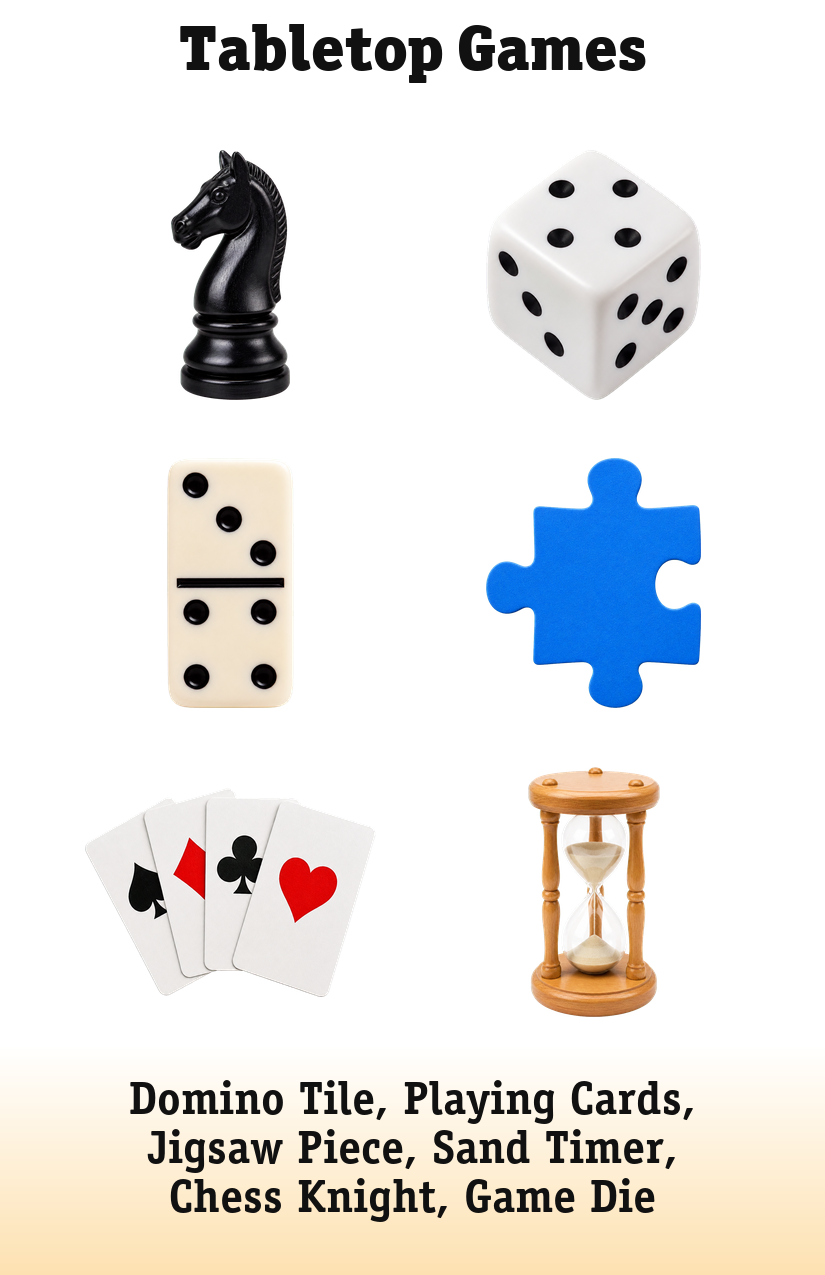
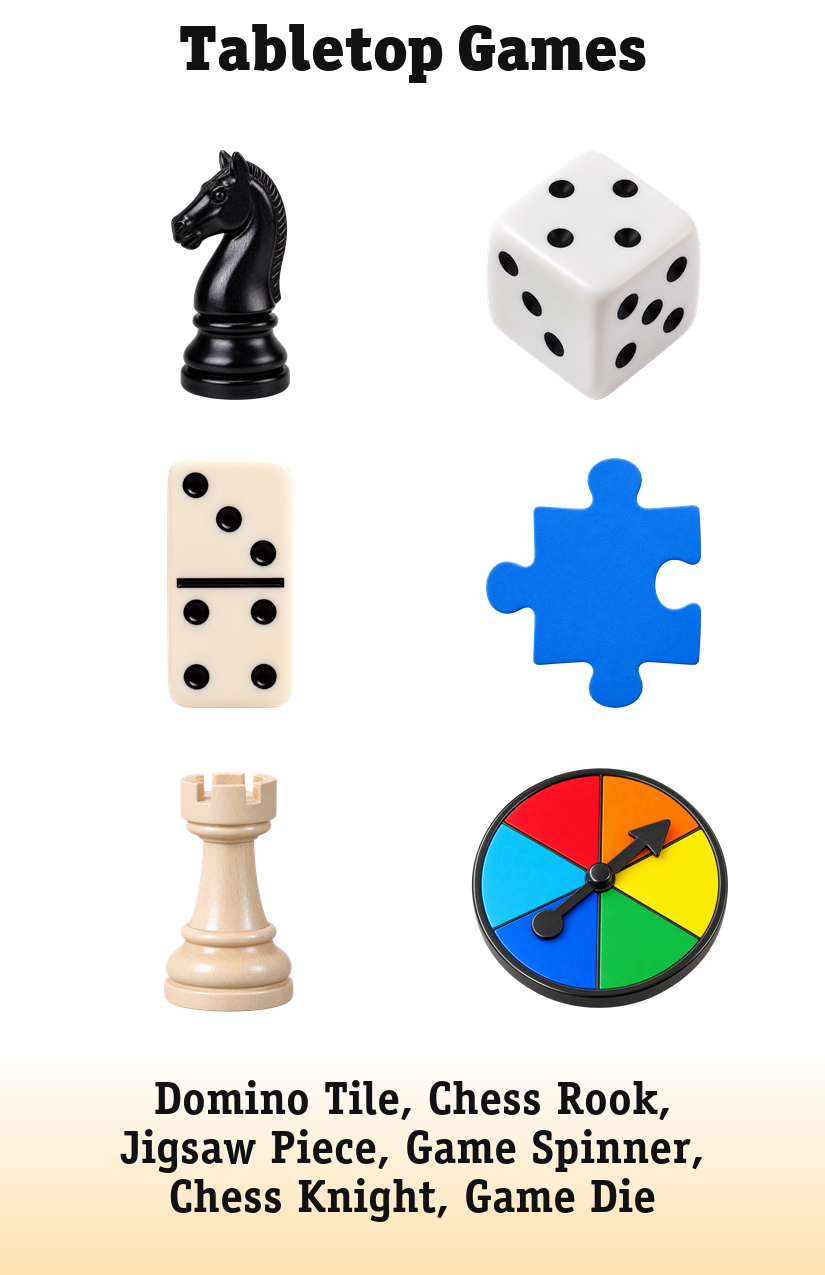
Rebuild Tabletop Games pair set

Changed region(s): [[0.5758, 0.5812, 0.8788, 0.7953], [0.1515, 0.8259, 0.8485, 0.9176], [0.1515, 0.5812, 0.4242, 0.7953]]

diff --git a/picture-this/game-data.js b/picture-this/game-data.js
@@ -525,8 +525,8 @@ window.PICTURE_THIS_GAME_DATA = {
     "Game Die",
     "Domino Tile",
     "Jigsaw Piece",
-    "Playing Cards",
-    "Sand Timer"
+    "Chess Rook",
+    "Game Spinner"
   ],
   "jewelry": [
     "Pearl Necklace",
@@ -1406,6 +1406,75 @@ window.PICTURE_THIS_GAME_DATA = {
 window.PICTURE_THIS_GAME_META = {
   "schema_version": 1,
   "cards": {
+    "board-games": {
+      "title": "Tabletop Games",
+      "category_answers": [
+        "Tabletop Games",
+        "Board Games",
+        "Game Pieces",
+        "Table Games"
+      ],
+      "tags": [
+        "games",
+        "leisure",
+        "tabletop"
+      ],
+      "items": [
+        {
+          "id": "chess-knight",
+          "label": "Chess Knight",
+          "answers": ["Chess Knight", "Knight"]
+        },
+        {
+          "id": "game-die",
+          "label": "Game Die",
+          "answers": ["Game Die", "Die"]
+        },
+        {
+          "id": "domino-tile",
+          "label": "Domino Tile",
+          "answers": ["Domino Tile", "Domino"]
+        },
+        {
+          "id": "jigsaw-piece",
+          "label": "Jigsaw Piece",
+          "answers": ["Jigsaw Piece", "Puzzle Piece"]
+        },
+        {
+          "id": "chess-rook",
+          "label": "Chess Rook",
+          "answers": ["Chess Rook", "Rook", "Chess Castle"]
+        },
+        {
+          "id": "game-spinner",
+          "label": "Game Spinner",
+          "answers": ["Game Spinner", "Spinner"]
+        }
+      ],
+      "links": [
+        {
+          "word": "chess",
+          "answers": ["chess"],
+          "items": ["chess-knight", "chess-rook"],
+          "explanation": "The chess knight and chess rook are the only two pieces shown that belong specifically to chess.",
+          "audit": "exclusive-among-six-v1"
+        },
+        {
+          "word": "chance",
+          "answers": ["chance", "random"],
+          "items": ["game-die", "game-spinner"],
+          "explanation": "The game die and game spinner are the only two items shown designed specifically to produce a random result.",
+          "audit": "exclusive-among-six-v1"
+        },
+        {
+          "word": "matching",
+          "answers": ["matching", "match"],
+          "items": ["domino-tile", "jigsaw-piece"],
+          "explanation": "The domino tile and jigsaw piece are the only two pieces shown whose play centers on matching one edge to another.",
+          "audit": "exclusive-among-six-v1"
+        }
+      ]
+    },
     "jewelry": {
       "title": "Jewelry and Accessories",
       "category_answers": [

diff --git a/picture-this/question-data.js b/picture-this/question-data.js
@@ -2863,45 +2863,45 @@ window.PICTURE_THIS_QUESTION_DATA = {
   },
   "board-games": {
     "questions": [
-      "Which items are pieces, and which help players measure chance or time?",
+      "Which items are game pieces, and which two produce a chance result?",
       "Which item has the most curved edges? Which has the most corners?",
-      "What board or card games do you enjoy playing?",
-      "How are the die, playing cards, and sand timer used in games?",
+      "What tabletop or card games do you enjoy playing?",
+      "How are the die, spinner, and different game pieces used in games?",
       "What other game pieces or rules can you name?",
-      "If you invented a board game, what would players need to do to win?"
+      "If you invented a tabletop game, what would players need to do to win?"
     ],
     "positions": [
       12.43,
       27.06,
       41.73,
       52.08,
-      62.47,
-      72.78
+      66.78,
+      77.1
     ],
     "endpoints": [
       {
-        "x": 51.27,
+        "x": 30.18,
         "y": 20.94
       },
       {
-        "x": 33.45,
+        "x": 33.82,
         "y": 35.61
       },
       {
-        "x": 48.36,
+        "x": 59.03,
         "y": 46.31
       },
       {
-        "x": 86.42,
-        "y": 56.67
+        "x": 31.15,
+        "y": 60.98
       },
       {
-        "x": 49.09,
-        "y": 66.67
+        "x": 49.45,
+        "y": 71.33
       },
       {
-        "x": 31.52,
-        "y": 81.33
+        "x": 31.88,
+        "y": 85.65
       }
     ]
   },

diff --git a/picture-this/link-data.js b/picture-this/link-data.js
@@ -448,11 +448,7 @@ const auditedLinkAdditions = {
     pictureThisLink("flames", [2,4], "Lantern and camp stove are the only two campsite devices shown that characteristically burn fuel."),
     pictureThisLink("red", [1,2], "Sleeping bag and camping lantern are the only two campsite items shown predominantly red.")
   ],
-  "board-games": [
-    pictureThisLink("dots", [1,2], "Die and domino are the only two pieces shown whose dots primarily represent numbers."),
-    pictureThisLink("matching", [2,3], "Domino and jigsaw piece are the only two pieces shown joined by matching physical ends or edges."),
-    pictureThisLink("chess", [0,5], "Chess knight and sand timer are the only two items shown directly associated with timed strategy play.")
-  ],
+  "board-games": [],
   "computer-equipment": [
     pictureThisLink("controls", [1,2], "Mouse and keyboard are the only two dedicated computer input controls shown."),
     pictureThisLink("video", [0,5], "Laptop and webcam are the only two items shown that directly form a computer video-call pair.")
